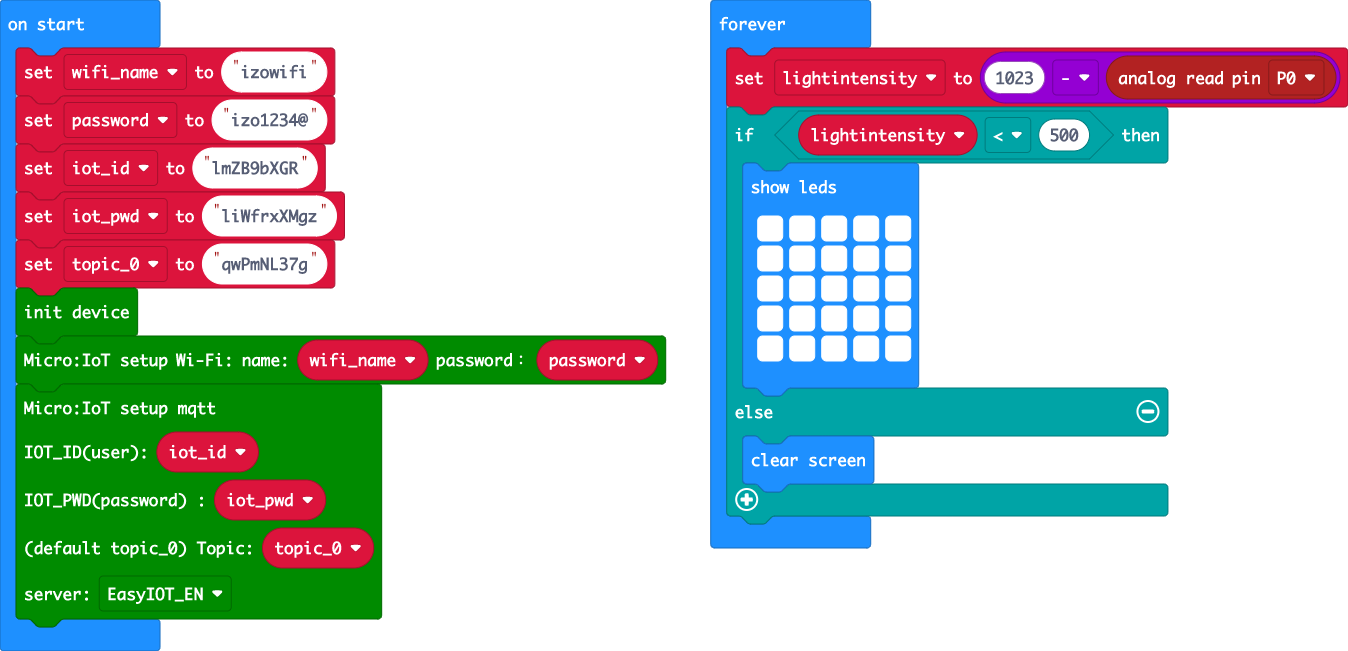
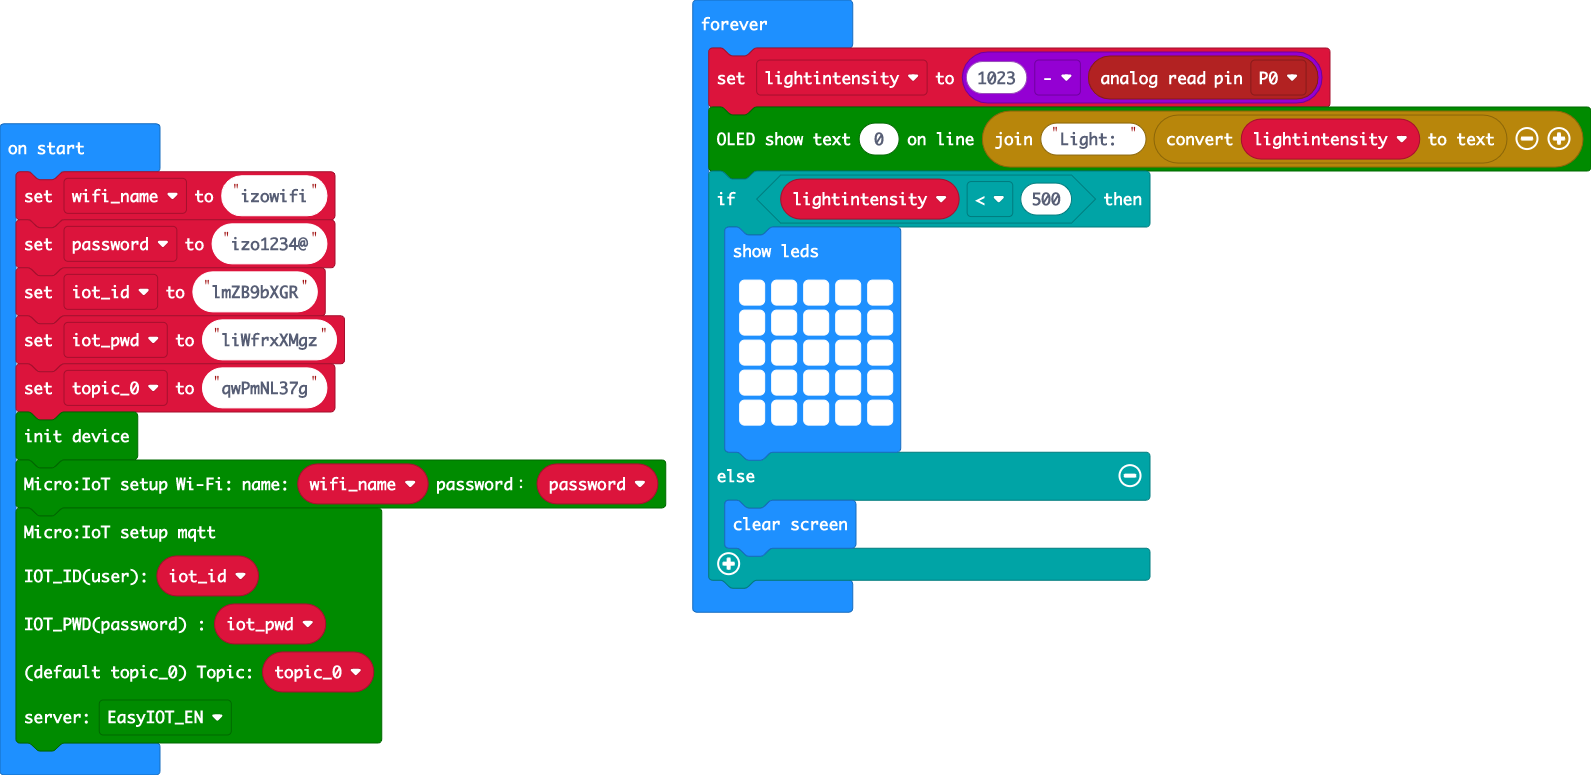
display light intensity on OLED

diff --git a/main.ts b/main.ts
@@ -14,6 +14,7 @@ microIoT.SERVERS.English
 )
 basic.forever(function () {
     lightintensity = 1023 - pins.analogReadPin(AnalogPin.P0)
+    microIoT.microIoT_showUserText(0, "Light: " + convertToText(lightintensity))
     if (lightintensity < 500) {
         basic.showLeds(`
             # # # # #
